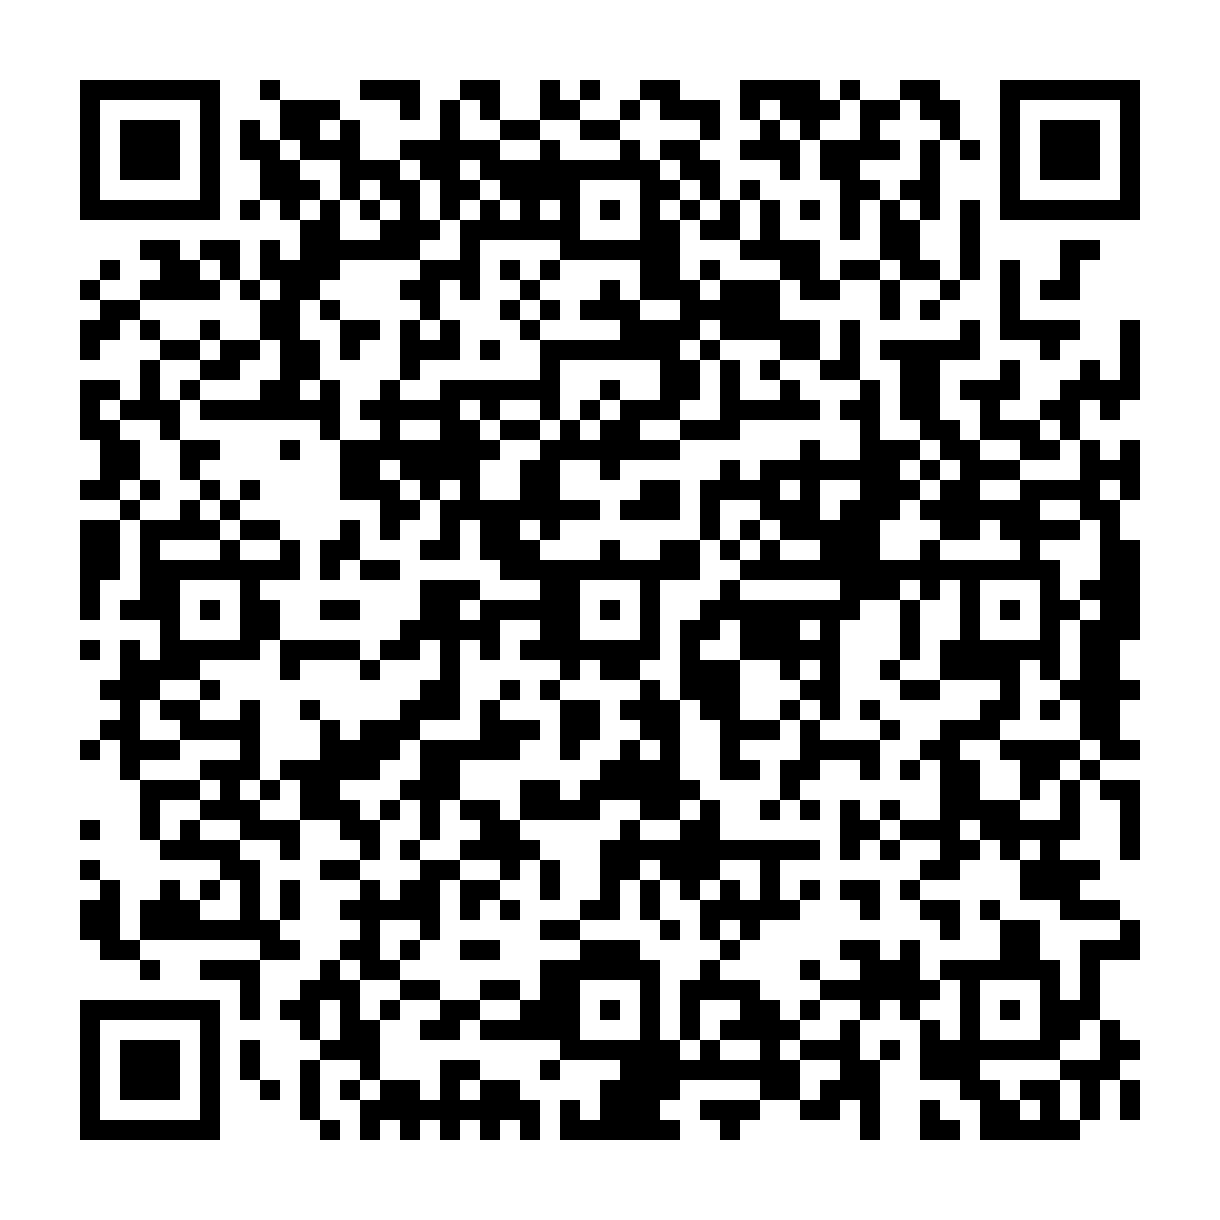
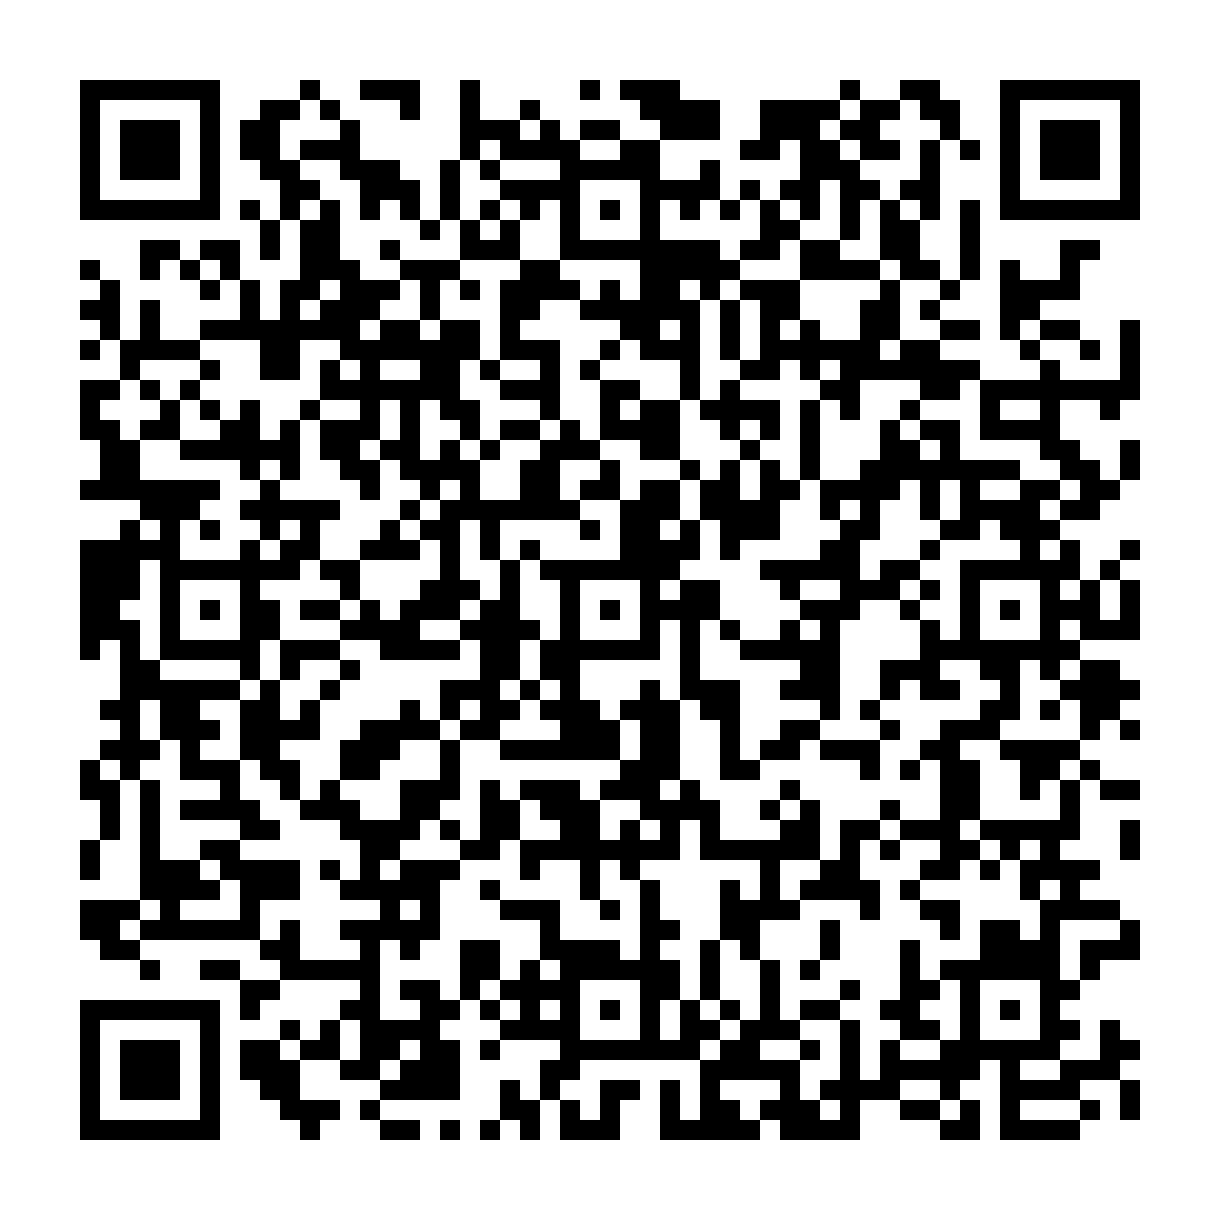
templates

diff --git a/app/Controllers/Documents.php b/app/Controllers/Documents.php
@@ -253,7 +253,7 @@ class Documents extends Security_Controller
 
             $t = $this->Templates_model->get_one($template_id);
             $this->db->query("update rise_templates set sqn = sqn + 1 where id = $template_id");
-            $sqn = $this->db->query("SELECT lpad(max(sqn),4,0) as sqn FROM rise_templates where id = $template_id")->getRow()->sqn;
+            $sqn = $this->db->query("SELECT lpad(max(sqn),5,0) as sqn FROM rise_templates where id = $template_id")->getRow()->sqn;
             $template_name = $t->path;
             $input['template'] = $template_name;
             $input['id'] = $save_id;
@@ -266,7 +266,7 @@ class Documents extends Security_Controller
 
             $input['folder'] = $doc->getRow()->folder;
             $input['uuid'] = $doc->getRow()->uuid;
-            $input['ref_number'] = $doc->getRow()->ref_prefix . $sqn . '/' . date('m') . '/' . date('y');
+            $input['ref_number'] = $doc->getRow()->ref_prefix . $sqn .  '/' . date('y');
             $token = $this->AccesToken();
 
             //create/save doc

diff --git a/app/Controllers/Leaves.php b/app/Controllers/Leaves.php
@@ -1428,6 +1428,8 @@ class Leaves extends Security_Controller {
 
         $leave_types = $meta_info->leave_type_title === "Fassax Shaqo" || $meta_info->leave_type_title === "Fasax Caafimaad" || $meta_info->leave_type_title === "Fasax Waxbarasho"; 
         $flight_included = $meta_info->flight_included === "1";
+
+        // ------------- Developer ---------------------------- Feysal --------------------------------- Abdirizack ------------------------ Info -----------
         $loginuser = $this->login_user->id === "1" || $this->login_user->id === "2621" || $this->login_user->id === "2552" || $this->login_user->id === "1547";
 
         if ($this->can_delete_leave_application() && $can_manage_application && $can_approve_leaves) {
